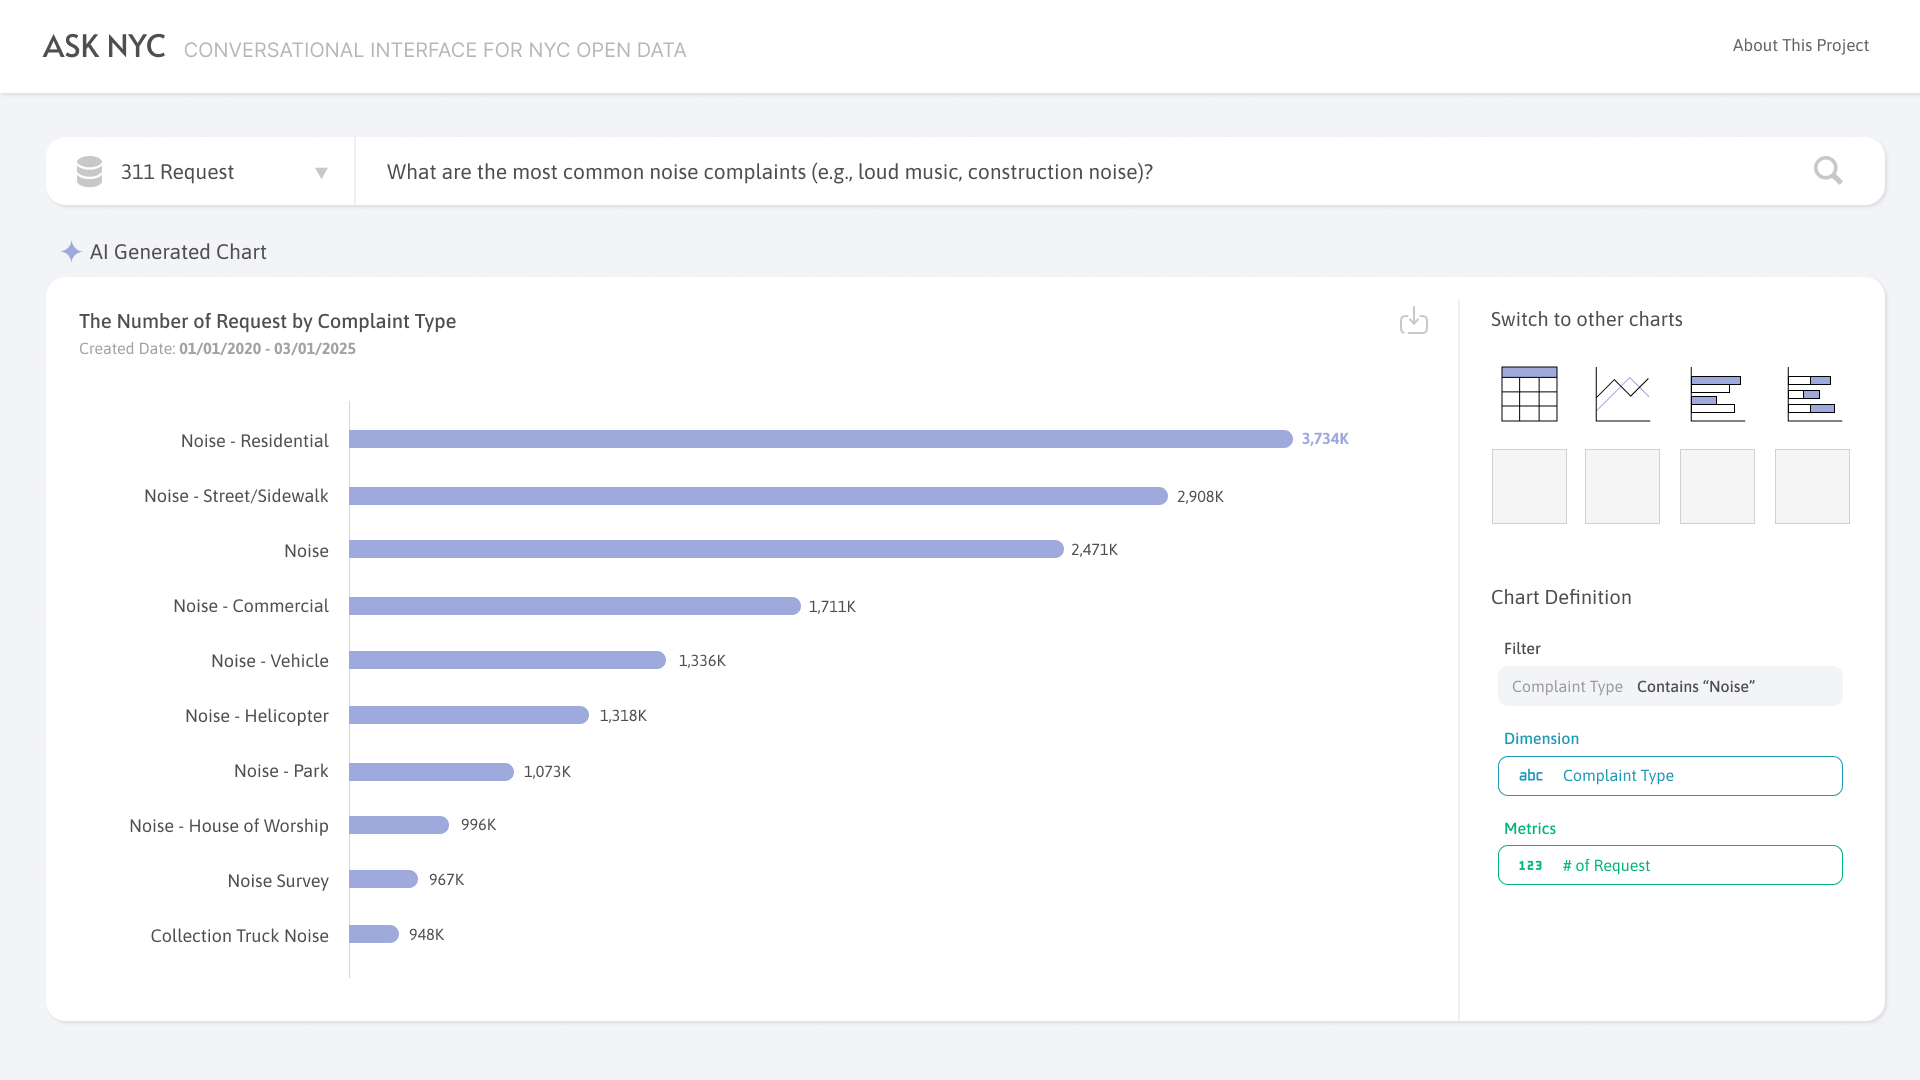
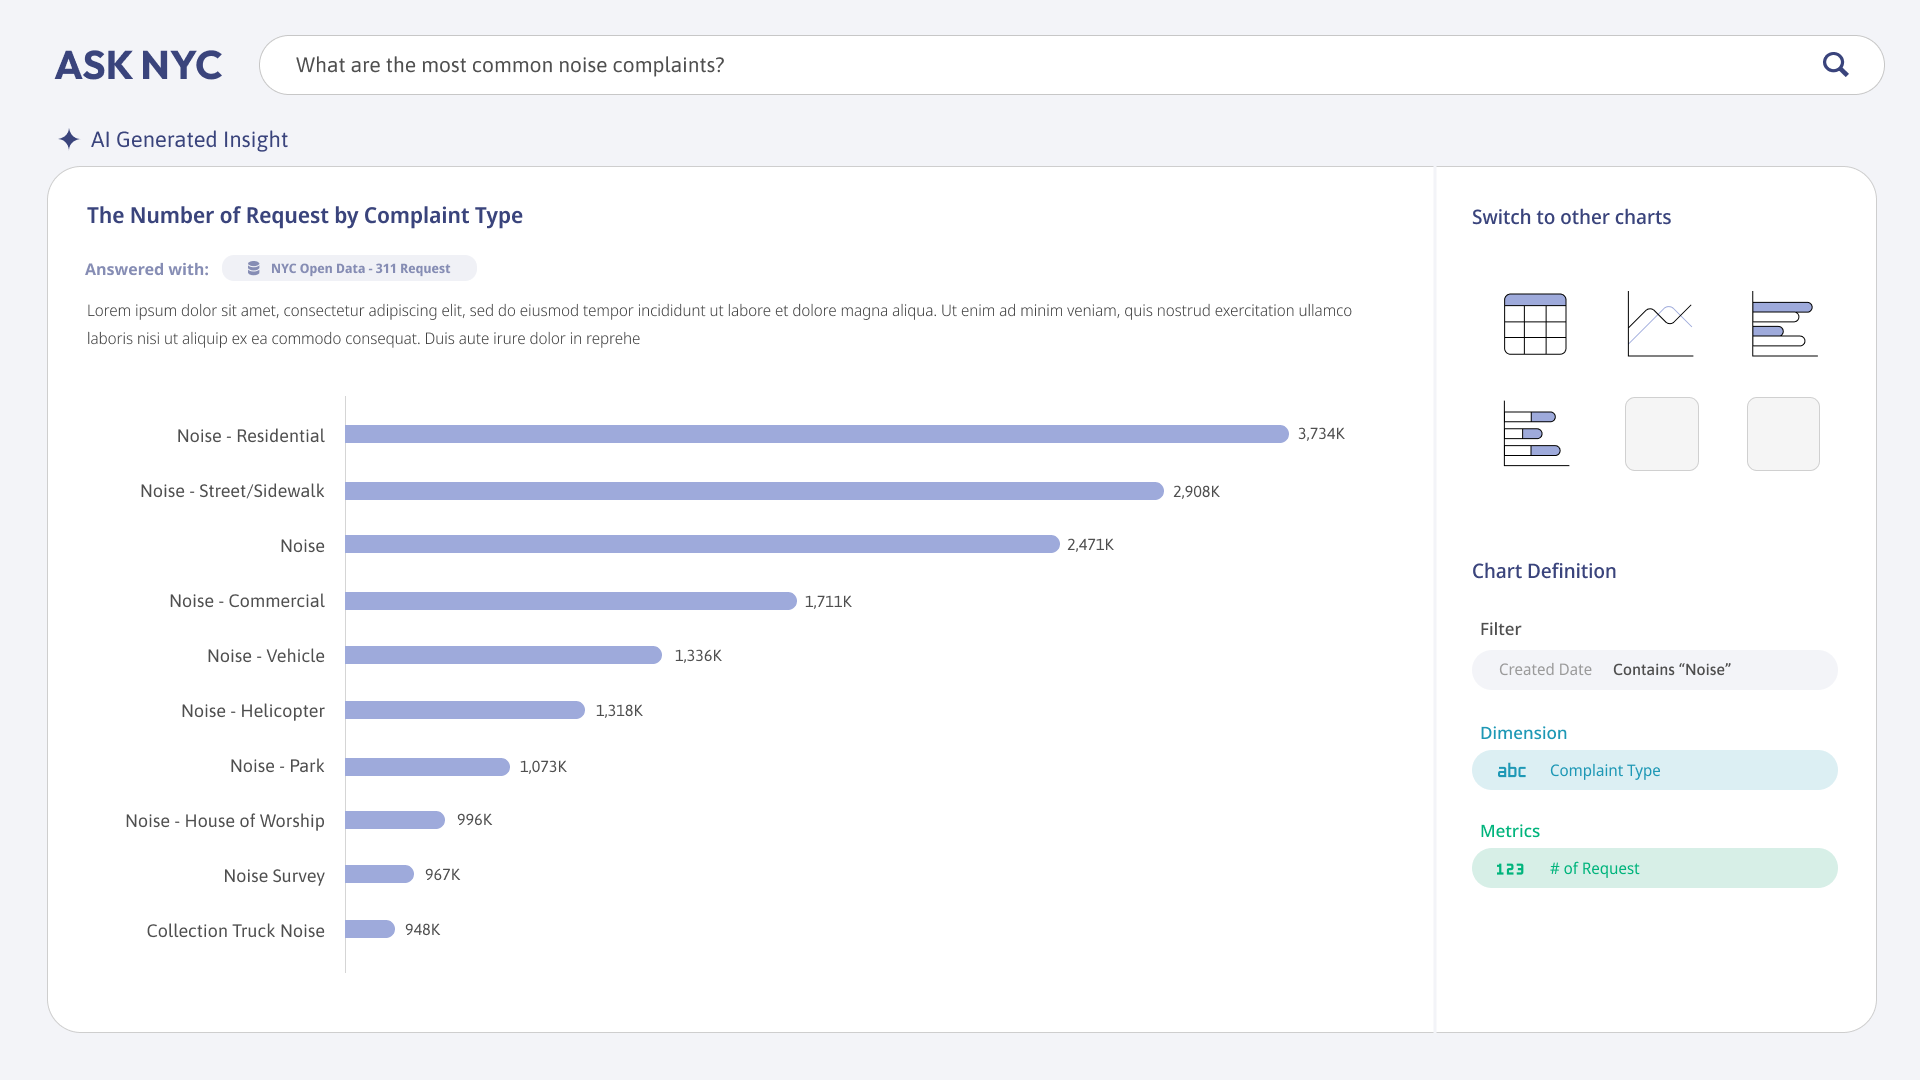
update design image

diff --git a/design_mockup/README.md b/design_mockup/README.md
@@ -1,16 +1,13 @@
 # Design Mockup
 
 ## Cover Page
-- Search Box allows users to select a dataset (e.g., "311 Request") and enter natural language queries.
-- Sample Questions provide examples of insights users can retrieve.
-
 ![](images/cover_page.png)
 
 ## Main Page
 The main page dynamically generates charts to visualize data based on the user's query, optimizing the representation for different types of analysis:
 - **Line Chart** for trend analysis (e.g., complaints over time).  
 - **Bar Chart** for comparisons (e.g., number of 311 requiests by complaint type).  
-- **Scatterplot** for illustrating relationships between variables.  
+- **Scatterplot** for illustrating relationships between variables.
 
 On the right side of the screen:  
 - **Chart Switcher** enables users to easily switch between different types of visualizations.  
@@ -24,6 +21,9 @@ On the right side of the screen:
 ![bar chart](images/bar_chart.png)
 
 ![table](images/table.png)
+
+If an user asks the question which open data cannot answer, the general result provided by gemini is returned with the source.
+![table](images/grounded_answer.png)
 
 # Architecture
 This system consists of three main components:
